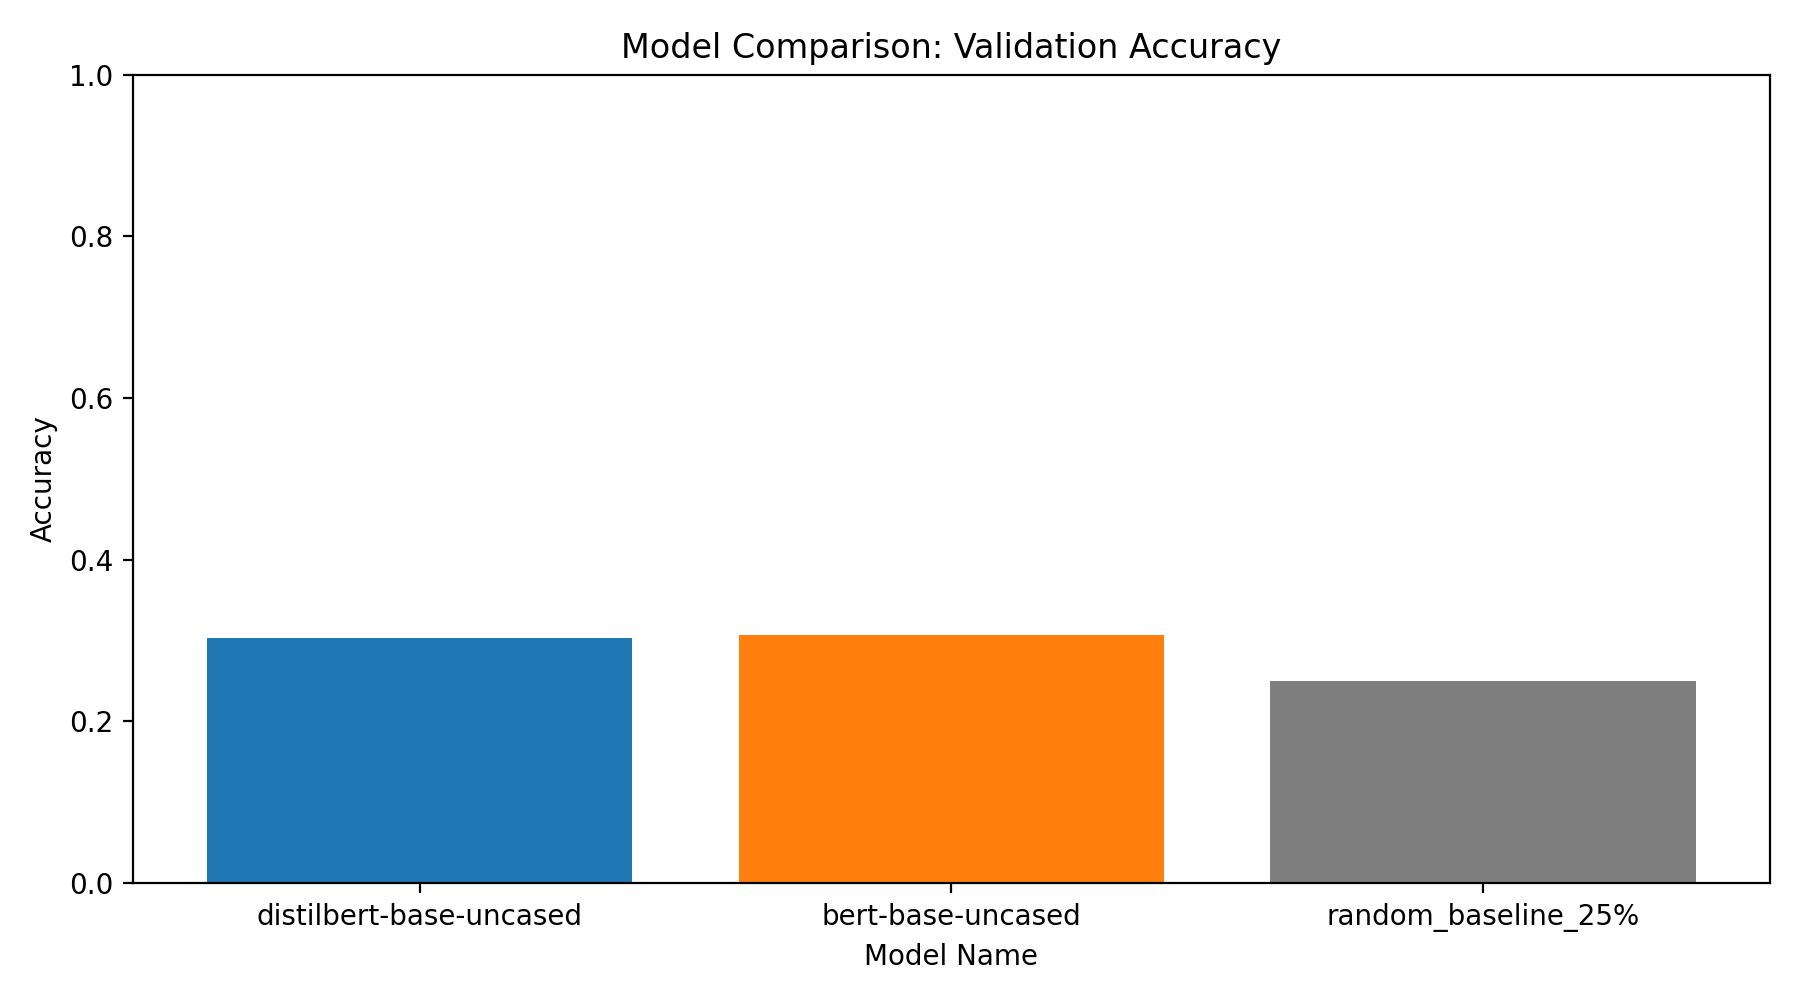
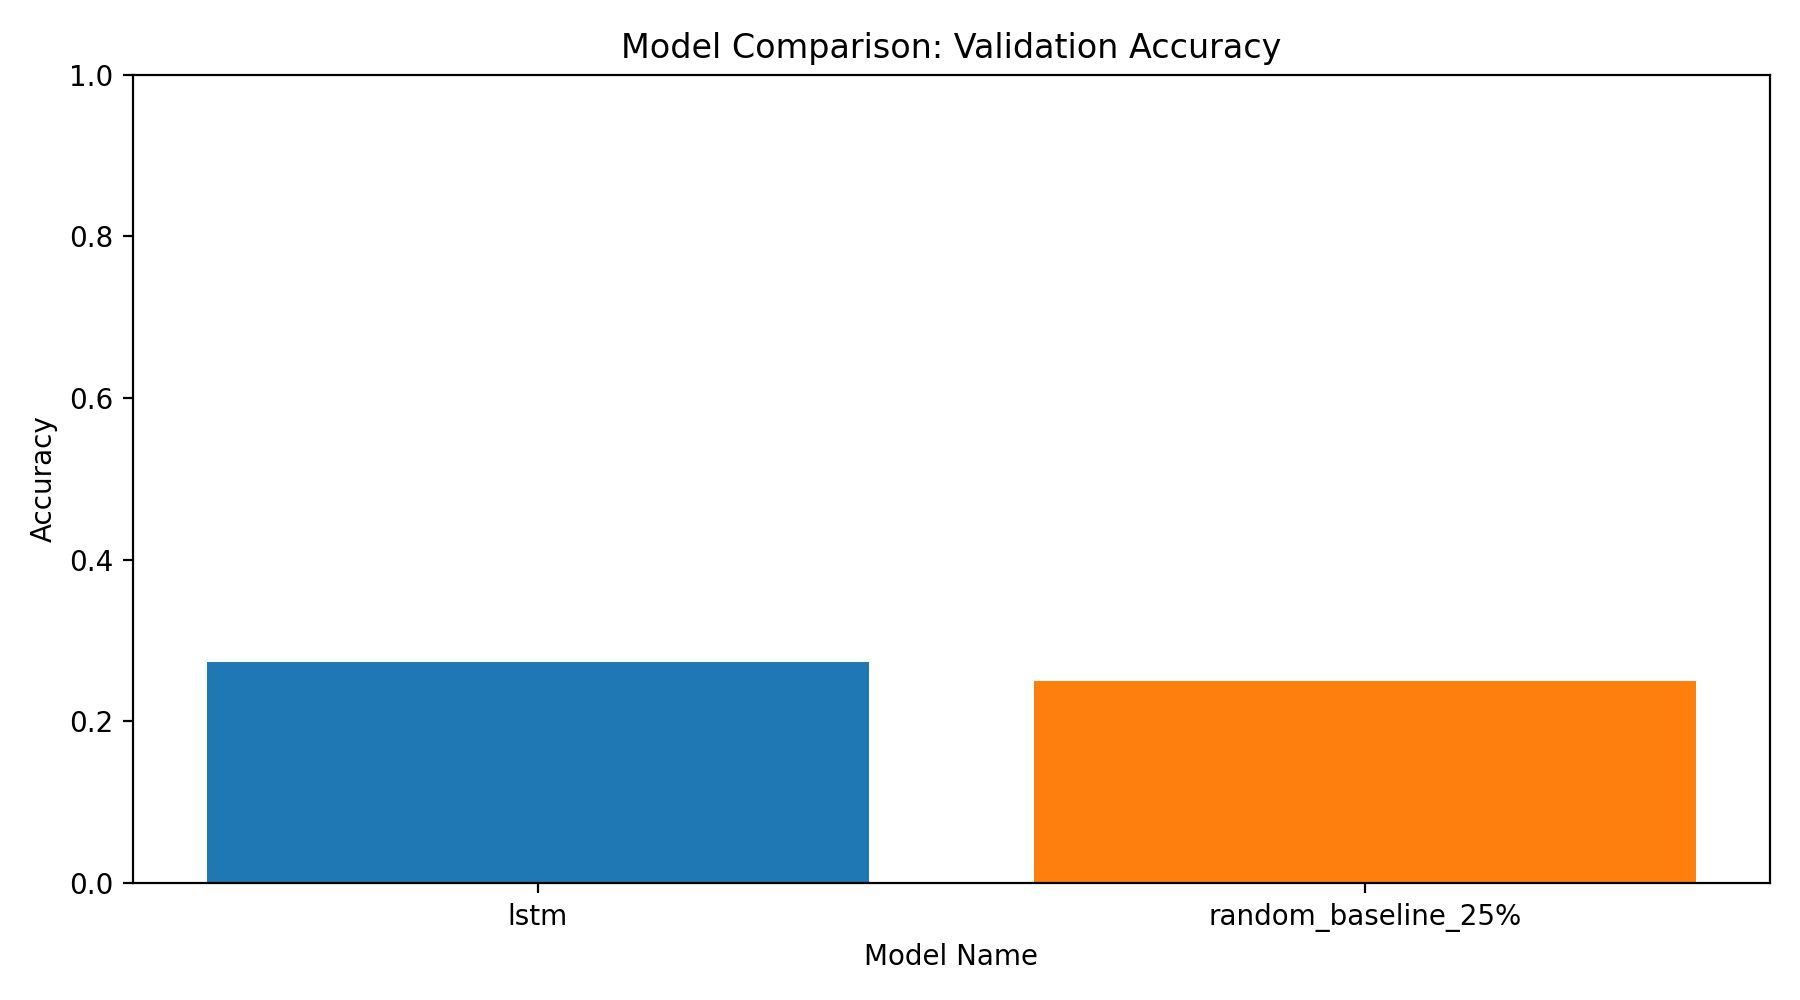
LSTM + EDA

Changed region(s): [[0.0933, 0.62, 0.9644, 0.93], [0.1244, 0.899, 0.3422, 0.93]]

diff --git a/src/eda.py b/src/eda.py
@@ -1,0 +1,107 @@
+"""
+eda.py
+------
+Responsible: Riley Bendure
+Handles:
+  - Exploratory Data Analysis on MedMCQA dataset
+  - Label distribution, question length, subject distribution, vocabulary stats
+  - Saves all figures to figures/eda/
+"""
+import os
+import matplotlib
+matplotlib.use("Agg")
+import matplotlib.pyplot as plt
+import pandas as pd
+import numpy as np
+from datasets import Dataset
+from src.utils import ensure_dir
+
+
+def plot_label_distribution(train_data: Dataset, figure_dir: str) -> None:
+    """Plot and save the distribution of correct answers (A/B/C/D)."""
+    label_map = {0: "A", 1: "B", 2: "C", 3: "D"}
+    labels = [label_map[int(ex["cop"])] for ex in train_data]
+    counts = pd.Series(labels).value_counts().sort_index()
+    plt.figure(figsize=(7, 5))
+    plt.bar(counts.index, counts.values, color="#1f77b4")
+    plt.xlabel("Answer Choice")
+    plt.ylabel("Count")
+    plt.title("Label Distribution (Training Set)")
+    plt.tight_layout()
+    plt.savefig(os.path.join(figure_dir, "label_distribution.png"), dpi=200)
+    plt.close()
+    print("  Saved: label_distribution.png")
+
+
+def plot_question_length(train_data: Dataset, figure_dir: str) -> None:
+    """Plot and save histogram of question lengths in words."""
+    lengths = [len(ex["question"].split()) for ex in train_data]
+    plt.figure(figsize=(8, 5))
+    plt.hist(lengths, bins=40, color="#ff7f0e", edgecolor="white")
+    plt.xlabel("Question Length (words)")
+    plt.ylabel("Count")
+    plt.title("Question Length Distribution (Training Set)")
+    plt.tight_layout()
+    plt.savefig(os.path.join(figure_dir, "question_length.png"), dpi=200)
+    plt.close()
+    print("  Saved: question_length.png")
+
+
+def plot_subject_distribution(train_data: Dataset, figure_dir: str) -> None:
+    """Plot and save the top 15 subjects by frequency."""
+    subjects = [ex.get("subject_name", "unknown") for ex in train_data]
+    counts = pd.Series(subjects).value_counts().head(15)
+    plt.figure(figsize=(12, 6))
+    plt.bar(counts.index, counts.values, color="#2ca02c")
+    plt.xticks(rotation=45, ha="right")
+    plt.xlabel("Subject")
+    plt.ylabel("Count")
+    plt.title("Top 15 Subjects by Frequency (Training Set)")
+    plt.tight_layout()
+    plt.savefig(os.path.join(figure_dir, "subject_distribution.png"), dpi=200)
+    plt.close()
+    print("  Saved: subject_distribution.png")
+
+
+def plot_option_length(train_data: Dataset, figure_dir: str) -> None:
+    """Plot and save average option length per answer choice."""
+    option_keys = {"A": "opa", "B": "opb", "C": "opc", "D": "opd"}
+    avg_lengths = {
+        label: np.mean([len(ex[key].split()) for ex in train_data])
+        for label, key in option_keys.items()
+    }
+    plt.figure(figsize=(7, 5))
+    plt.bar(avg_lengths.keys(), avg_lengths.values(), color="#9467bd")
+    plt.xlabel("Answer Choice")
+    plt.ylabel("Average Length (words)")
+    plt.title("Average Option Length by Answer Choice (Training Set)")
+    plt.tight_layout()
+    plt.savefig(os.path.join(figure_dir, "option_length.png"), dpi=200)
+    plt.close()
+    print("  Saved: option_length.png")
+
+
+def print_summary_stats(train_data: Dataset, val_data: Dataset) -> None:
+    """Print basic dataset statistics to the console."""
+    question_lengths = [len(ex["question"].split()) for ex in train_data]
+    print("\n=== EDA Summary Statistics ===")
+    print(f"  Training samples       : {len(train_data)}")
+    print(f"  Validation samples     : {len(val_data)}")
+    print(f"  Unique subjects        : {len(set(ex.get('subject_name', '') for ex in train_data))}")
+    print(f"  Avg question length    : {np.mean(question_lengths):.1f} words")
+    print(f"  Max question length    : {max(question_lengths)} words")
+    print(f"  Min question length    : {min(question_lengths)} words")
+    print("=" * 40)
+
+
+def run_eda(train_data: Dataset, val_data: Dataset, figure_dir: str) -> None:
+    """Run full EDA pipeline and save all figures."""
+    eda_figure_dir = os.path.join(figure_dir, "eda")
+    ensure_dir(eda_figure_dir)
+    print("\n=== Running EDA ===")
+    print_summary_stats(train_data, val_data)
+    plot_label_distribution(train_data, eda_figure_dir)
+    plot_question_length(train_data, eda_figure_dir)
+    plot_subject_distribution(train_data, eda_figure_dir)
+    plot_option_length(train_data, eda_figure_dir)
+    print(f"EDA figures saved to: {eda_figure_dir}")

diff --git a/src/lstm_model.py b/src/lstm_model.py
@@ -1,0 +1,98 @@
+"""
+lstm_model.py
+-------------
+Responsible: Riley Bendure
+Handles:
+  - LSTM-based multiple-choice classification model
+  - Compatible with existing MedMCQADataset and mc_data_collator
+  - Mirrors the transformer model interface for drop-in comparison
+"""
+import torch
+import torch.nn as nn
+from transformers import AutoTokenizer
+
+LSTM_TOKENIZER = "bert-base-uncased"
+NUM_LABELS = 4
+
+
+def get_lstm_tokenizer():
+    """Return the shared BERT tokenizer for the LSTM model."""
+    print(f"Loading LSTM tokenizer: {LSTM_TOKENIZER}")
+    return AutoTokenizer.from_pretrained(LSTM_TOKENIZER)
+
+
+class LSTMMultipleChoice(nn.Module):
+    def __init__(
+        self,
+        vocab_size: int = 30522,
+        embed_dim: int = 128,
+        hidden_dim: int = 256,
+        num_layers: int = 2,
+        dropout: float = 0.3,
+        num_choices: int = NUM_LABELS,
+        pad_token_id: int = 0,
+    ):
+        super().__init__()
+        self.num_choices = num_choices
+        self.embedding = nn.Embedding(vocab_size, embed_dim, padding_idx=pad_token_id)
+        self.lstm = nn.LSTM(
+            input_size=embed_dim,
+            hidden_size=hidden_dim,
+            num_layers=num_layers,
+            batch_first=True,
+            bidirectional=True,
+            dropout=dropout if num_layers > 1 else 0.0,
+        )
+        self.dropout = nn.Dropout(dropout)
+        self.classifier = nn.Linear(hidden_dim * 2, 1)
+
+    def _encode_one_choice(
+        self, input_ids: torch.Tensor, attention_mask: torch.Tensor
+    ) -> torch.Tensor:
+        x = self.embedding(input_ids)
+        x = self.dropout(x)
+        lengths = attention_mask.sum(dim=1).clamp(min=1).cpu()
+        packed = nn.utils.rnn.pack_padded_sequence(
+            x, lengths, batch_first=True, enforce_sorted=False
+        )
+        packed_out, _ = self.lstm(packed)
+        out, _ = nn.utils.rnn.pad_packed_sequence(packed_out, batch_first=True)
+        T = out.size(1)
+        mask = attention_mask[:, :T].unsqueeze(-1).float()
+        pooled = (out * mask).sum(dim=1) / mask.sum(dim=1).clamp(min=1e-9)
+        return pooled
+
+    def forward(
+        self,
+        input_ids: torch.Tensor,
+        attention_mask: torch.Tensor,
+        labels: torch.Tensor = None,
+    ):
+        choice_logits = []
+        for c in range(self.num_choices):
+            pooled = self._encode_one_choice(
+                input_ids[:, c, :], attention_mask[:, c, :]
+            )
+            pooled = self.dropout(pooled)
+            logit = self.classifier(pooled)
+            choice_logits.append(logit)
+        logits = torch.cat(choice_logits, dim=1)
+        loss = None
+        if labels is not None:
+            loss_fn = nn.CrossEntropyLoss()
+            loss = loss_fn(logits, labels)
+        return _LSTMOutput(loss=loss, logits=logits)
+
+
+class _LSTMOutput:
+    """Lightweight output container matching the HuggingFace interface."""
+    def __init__(self, loss, logits):
+        self.loss = loss
+        self.logits = logits
+        self._values = (loss, logits)
+
+    def __getitem__(self, idx):
+        return
+    def __iter__(self):
+        return iter(self._values)
+    

diff --git a/src/main.py b/src/main.py
@@ -21,6 +21,7 @@ matplotlib.use("Agg")  # Non-interactive backend for reproducible figure generat
 import matplotlib.pyplot as plt
 import pandas as pd
 
+from src.eda import run_eda
 from src.data import build_datasets
 from src.evaluate import run_evaluation
 from src.model import DEFAULT_MODEL, get_model, get_tokenizer, resolve_model_name
@@ -45,7 +46,7 @@ def parse_args() -> argparse.Namespace:
     parser.add_argument(
         "--compare_models",
         action="store_true",
-        help="Run both distilbert-base-uncased and bert-base-uncased for direct comparison",
+        help="Run distilbert-base-uncased, bert-base-uncased and lstm for direct comparison",
     )
     parser.add_argument("--epochs", type=int, default=3, help="Number of training epochs")
     parser.add_argument("--batch_size", type=int, default=8, help="Per-device batch size")
@@ -73,7 +74,7 @@ def parse_args() -> argparse.Namespace:
 def resolve_and_validate_models(model_arg: str, compare_models: bool) -> List[str]:
     """Parse, resolve, and validate the final list of models to run."""
     if compare_models:
-        return ["distilbert-base-uncased", "bert-base-uncased"]
+        return ["distilbert-base-uncased", "bert-base-uncased", "lstm"]
 
     requested = [part.strip() for part in model_arg.split(",") if part.strip()]
     if not requested:
@@ -116,11 +117,13 @@ def save_model_comparison(results: List[Dict[str, Any]], output_dir: str, figure
     placeholder_payload = {
         "{{DISTILBERT_VAL_ACCURACY}}": None,
         "{{BERT_VAL_ACCURACY}}": None,
+        "{{LSTM_VAL_ACCURACY}}": None,
         "{{BEST_MODEL}}": None,
     }
     model_placeholder_map = {
         "distilbert-base-uncased": "{{DISTILBERT_VAL_ACCURACY}}",
         "bert-base-uncased": "{{BERT_VAL_ACCURACY}}",
+        "lstm": "{{LSTM_VAL_ACCURACY}}",
     }
     for row in results:
         placeholder_key = model_placeholder_map.get(row["model"])
@@ -164,7 +167,7 @@ def run_single_model(
 ) -> Dict[str, Any]:
     """Run train+evaluate for one model and return summary metrics."""
     model_output_dir = args.output_dir if not multi_run else os.path.join(args.output_dir, model_name)
-    model_figure_dir = args.figure_dir if not multi_run else os.path.join(args.figure_dir, model_name)
+    model_figure_dir = os.path.join(args.figure_dir, model_name)
 
     ensure_dir(model_output_dir)
     ensure_dir(model_figure_dir)
@@ -195,6 +198,11 @@ def run_single_model(
         max_length=args.max_length,
     )
 
+    run_eda(
+        train_data=train_dataset.data,
+        val_data=val_dataset.data,
+        figure_dir=model_figure_dir,
+    )
     trainer = run_training(
         model=model,
         tokenizer=tokenizer,

diff --git a/src/train.py b/src/train.py
@@ -18,6 +18,8 @@ from sklearn.metrics import accuracy_score, f1_score, precision_score, recall_sc
 from transformers import Trainer, TrainingArguments
 
 from src.utils import ensure_dir
+from src.lstm_model import LSTMMultipleChoice
+
 
 
 # ---------------------------------------------------------------------------
@@ -50,7 +52,31 @@ def compute_metrics(eval_pred: Tuple[np.ndarray, np.ndarray]) -> Dict[str, float
 # ---------------------------------------------------------------------------
 # Trainer setup
 # ---------------------------------------------------------------------------
+# Add this class ABOVE the build_trainer function
+class LSTMAwareTrainer(Trainer):
+    def compute_loss(self, model, inputs, return_outputs=False, **kwargs):
+        labels = inputs.get("labels")
+        outputs = model(
+            input_ids=inputs["input_ids"],
+            attention_mask=inputs["attention_mask"],
+            labels=labels,
+        )
+        loss = outputs.loss
+        return (loss, outputs) if return_outputs else loss
 
+    def prediction_step(self, model, inputs, prediction_loss_only, ignore_keys=None):
+        inputs = self._prepare_inputs(inputs)
+        with torch.no_grad():
+            outputs = model(
+                input_ids=inputs["input_ids"],
+                attention_mask=inputs["attention_mask"],
+                labels=inputs.get("labels"),
+            )
+        loss = outputs.loss
+        logits = outputs.logits
+        labels = inputs.get("labels")
+        return (loss, logits, labels)
+    
 def build_trainer(
     model: Any,
     train_dataset: Any,
@@ -85,8 +111,8 @@ def build_trainer(
         report_to="none",
         fp16=False,  # Disable fp16 for CPU compatibility
     )
-
-    return Trainer(
+    trainer_cls = LSTMAwareTrainer if isinstance(model, LSTMMultipleChoice) else Trainer
+    return trainer_cls(
         model=model,
         args=training_args,
         train_dataset=train_dataset,
@@ -131,5 +157,5 @@ def run_training(
     trainer.save_model(model_save_path)
     tokenizer.save_pretrained(model_save_path)
     print(f"Model and tokenizer saved to: {model_save_path}")
-
     return trainer
+

diff --git a/src/model.py b/src/model.py
@@ -13,12 +13,15 @@ from typing import Dict
 
 from transformers import AutoModelForMultipleChoice, AutoTokenizer
 
+from src.lstm_model import LSTMMultipleChoice, get_lstm_tokenizer
+
 # Supported model identifiers
 SUPPORTED_MODELS: Dict[str, str] = {
     "distilbert": "distilbert-base-uncased",
     "bert": "bert-base-uncased",
     "distilbert-base-uncased": "distilbert-base-uncased",
     "bert-base-uncased": "bert-base-uncased",
+    "lstm": "lstm",
 }
 
 DEFAULT_MODEL = "distilbert-base-uncased"
@@ -42,6 +45,8 @@ def resolve_model_name(model_name: str) -> str:
 def get_tokenizer(model_name: str = DEFAULT_MODEL):
     """Load and return a Hugging Face tokenizer."""
     resolved_model = resolve_model_name(model_name)
+    if resolved_model == "lstm":
+        return get_lstm_tokenizer()
     print(f"Loading tokenizer: {resolved_model}")
     return AutoTokenizer.from_pretrained(resolved_model)
 
@@ -52,5 +57,8 @@ def get_model(model_name: str = DEFAULT_MODEL, num_labels: int = 4):
     classification (4-way: A/B/C/D).
     """
     resolved_model = resolve_model_name(model_name)
+    if resolved_model == "lstm":
+        print("Loading LSTM model (BiLSTM, 2 layers, hidden=256)")
+        return LSTMMultipleChoice(num_choices=num_labels)
     print(f"Loading model: {resolved_model}  (num_choices={num_labels})")
     return AutoModelForMultipleChoice.from_pretrained(resolved_model)

diff --git a/reports/final_report.md b/reports/final_report.md
@@ -1,7 +1,7 @@
 # Final Report: Clinical NLP with Biomedical Text Data
 
 ## Abstract
-This project presents a supervised multi-class text classification NLP algorithm for biomedical question understanding using MedMCQA. We frame multiple-choice medical question answering as a four-class prediction task over answer labels A, B, C, and D. We fine-tune transformer models (DistilBERT and BERT) using deterministic train/validation subsets, standardized tokenization, and reproducible experiment settings. The pipeline produces quantitative metrics, prediction-level artifacts, subject-wise analysis, and comparison outputs to support transparent evaluation. Results show that pretrained transformer encoders provide practical performance for biomedical multiple-choice classification while preserving a modular workflow suitable for further clinical NLP experimentation.
+This project presents a supervised multi-class text classification NLP algorithm for biomedical question understanding using MedMCQA. We frame multiple-choice medical question answering as a four-class prediction task over answer labels A, B, C, and D. We fine-tune transformer models (DistilBERT, BERT, LSTM) using deterministic train/validation subsets, standardized tokenization, and reproducible experiment settings. The pipeline produces quantitative metrics, prediction-level artifacts, subject-wise analysis, and comparison outputs to support transparent evaluation. Results show that pretrained transformer encoders provide practical performance for biomedical multiple-choice classification while preserving a modular workflow suitable for further clinical NLP experimentation.
 
 ## Introduction
 Biomedical NLP systems are increasingly used to support educational and clinical reasoning workflows. Medical multiple-choice question answering is a useful proxy task for measuring domain-specific language understanding, factual recall, and contextual reasoning. In this project, we address MedMCQA as a text classification problem rather than a generative QA task. This framing enables reliable supervised learning and clear metric interpretation.
@@ -32,6 +32,7 @@ Each example is transformed into four (question, option) pairs and tokenized wit
 ### Models
 - `distilbert-base-uncased`
 - `bert-base-uncased`
+- `lstm`
 
 Both are trained through `AutoModelForMultipleChoice` for fair architectural comparison under consistent hyperparameters.
 
